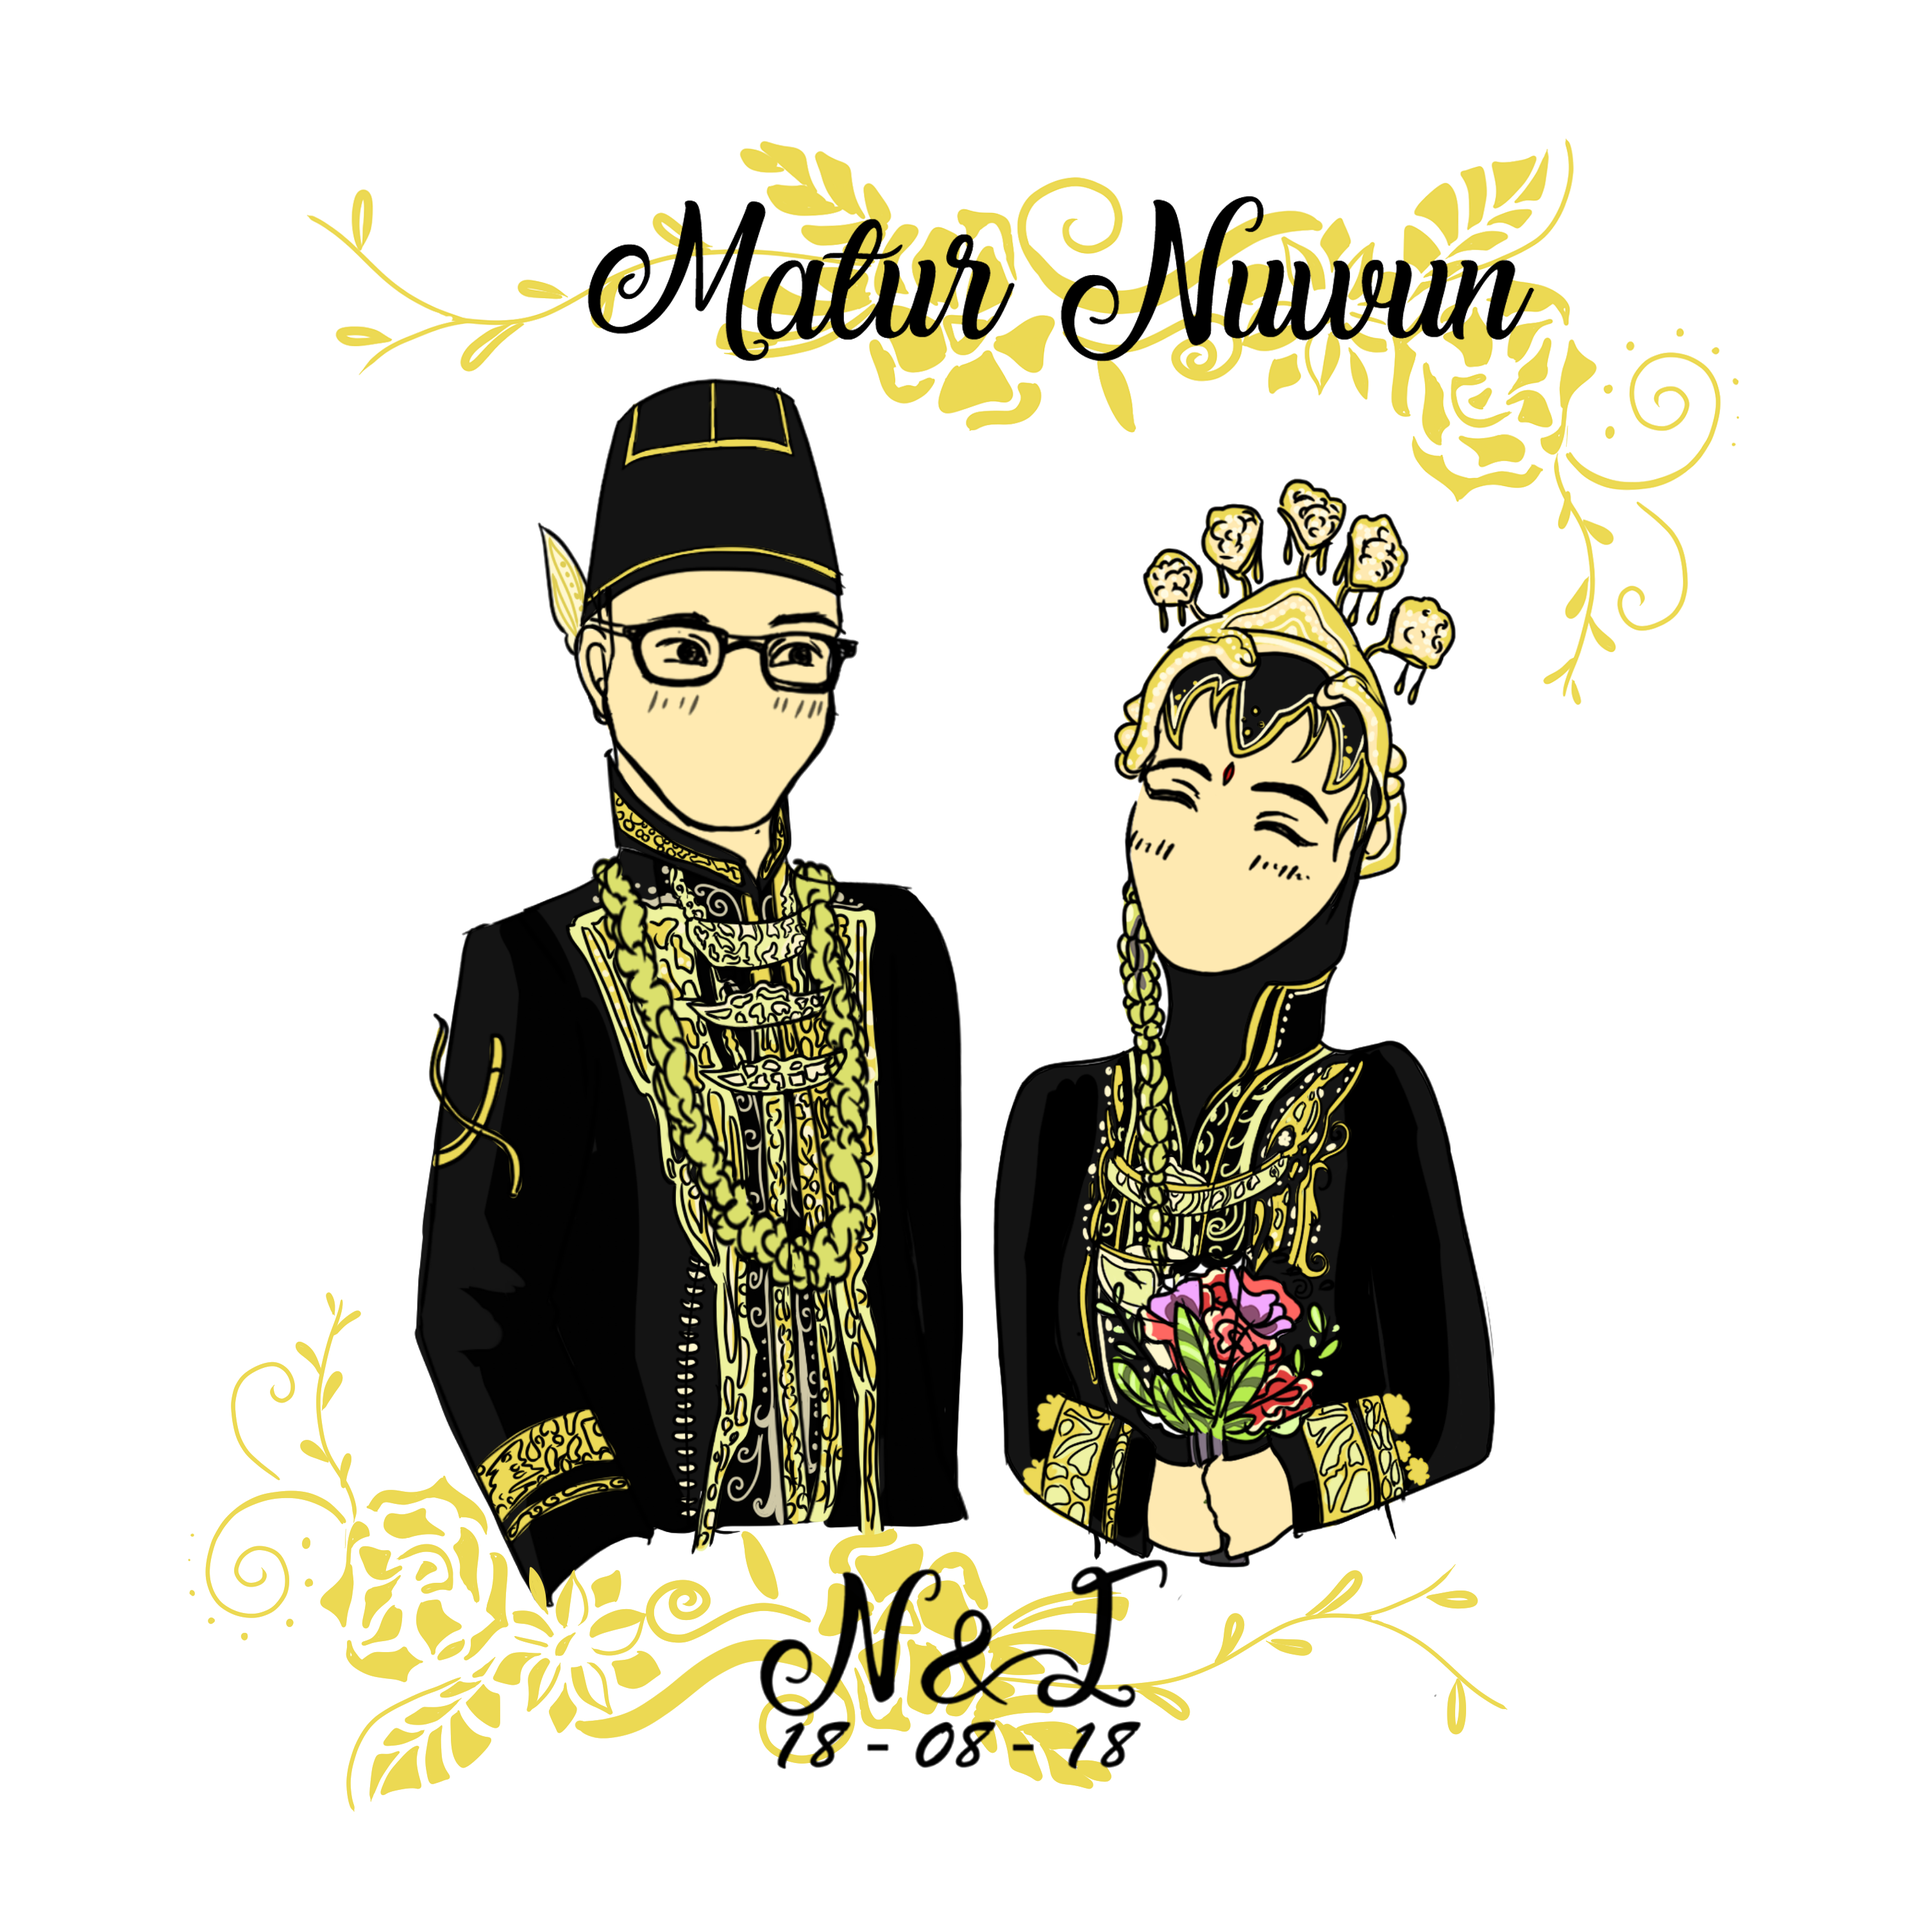
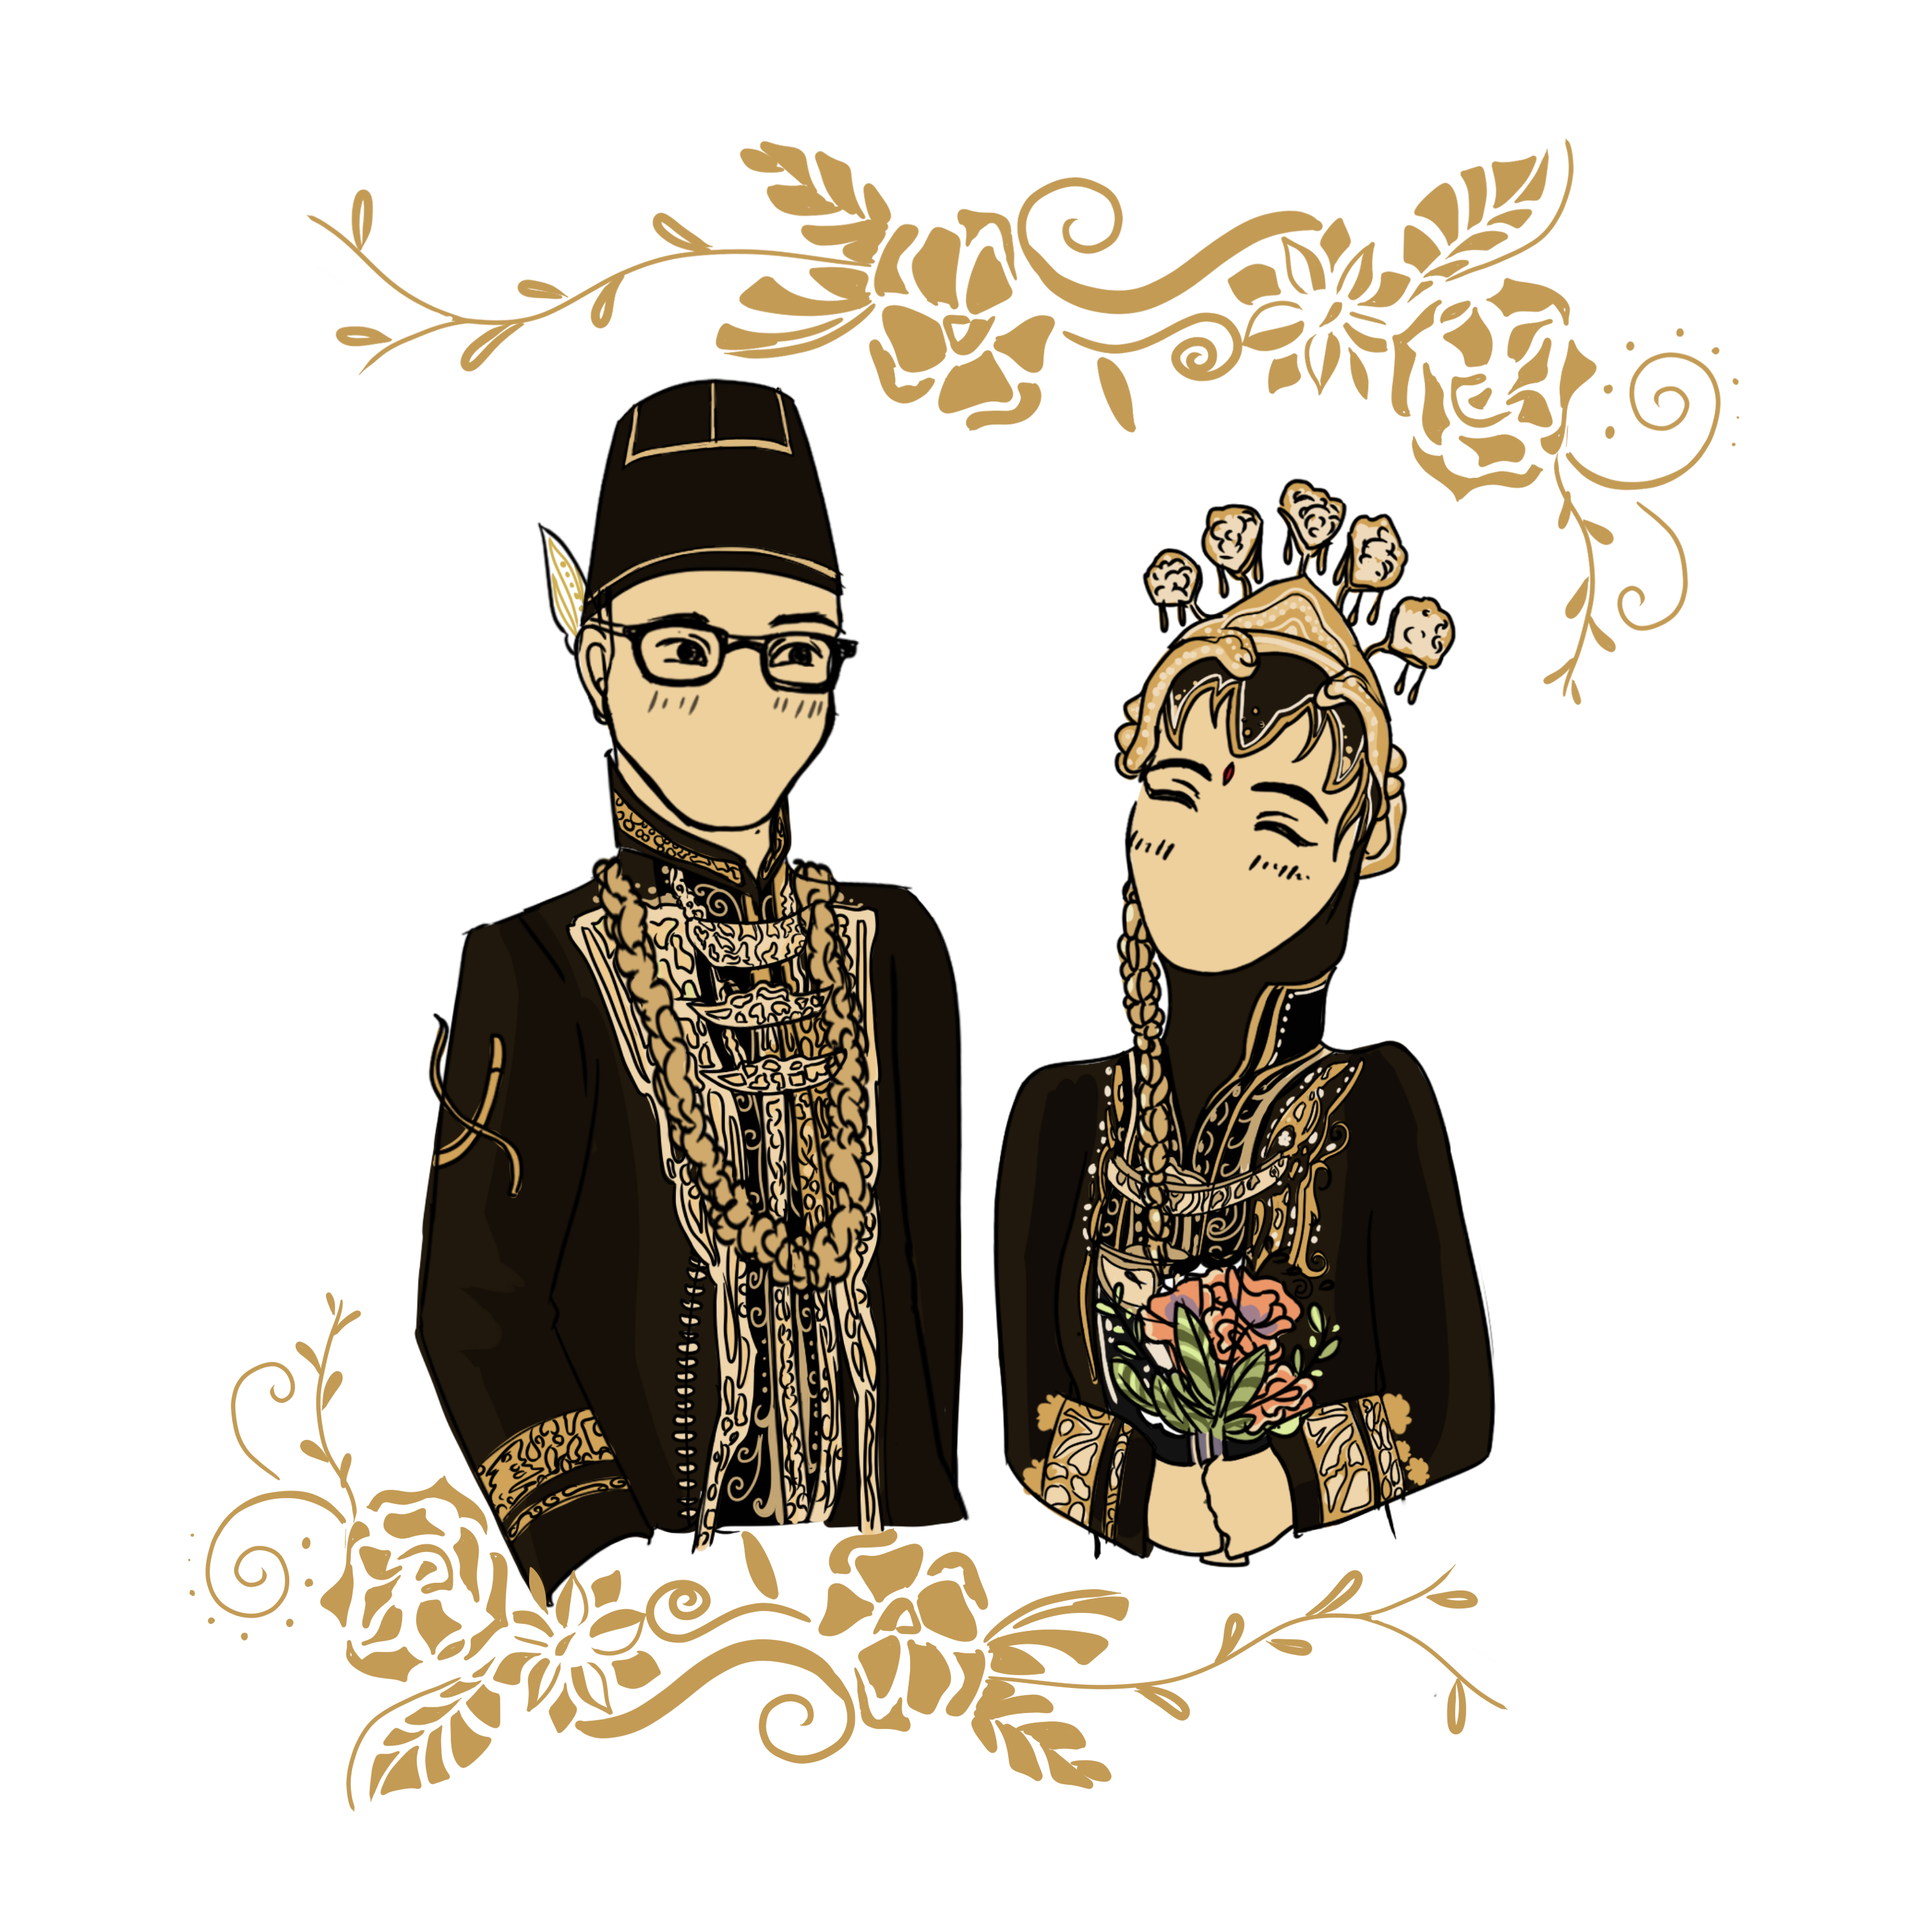
update all

diff --git a/src/index.html b/src/index.html
@@ -89,7 +89,7 @@
 	            <li><a href="#" data-nav-section="greetings"><span>Greetings</span></a></li>
 	            <li><a href="#" data-nav-section="people"><span>People</span></a></li-->
 	            <li><a href="#" data-nav-section="when-where"><span>Waktu &amp; Tempat</span></a></li>
-	            <li><a href="#" data-nav-section="rsvp"><span>RSVP</span></a></li>
+	            <li><a href="#" data-nav-section="rsvp"><span>Buku Tamu</span></a></li>
 	            <li><a href="#" data-nav-section="gallery"><span>Galeri</span></a></li>
 	            <!--li><a href="#" data-nav-section="blog"><span>Blog</span></a></li-->
 	          </ul>
@@ -101,9 +101,9 @@
 	
 	
 
-	<section id="home" class="video-hero" style="height: 800px; width: 100%; background-image: url(assets/images/cover_bg_3.jpg);  background-size:cover; background-position: center center;background-attachment:fixed;" data-section="home">
+	<section id="home" class="video-hero" style="height: 600px; width: 100%; background-image: url(assets/images/cover_bg_3.jpg);  background-size:cover; background-position: center center;background-attachment:fixed;" data-section="home">
 	<div class="qbootstrap-overlay"></div>
-		<a class="player" data-property="{videoURL:'https://youtu.be/nlpoMtPHLfY',containment:'#home', showControls:false, autoPlay:true, loop:true, mute:true, startAt:0, opacity:1, quality:'default'}"></a> 
+		<a class="player" data-property="{videoURL:'https://youtu.be/nlpoMtPHLfY',containment:'#home', showControls:false, autoPlay:true, loop:true, mute:true, startAt:0, opacity:1, quality:'small'}"></a> 
 		<div class="display-t text-center">
 			<div class="display-tc">
 				<div class="container">
@@ -130,7 +130,7 @@
 						<p>"Dan di antara tanda-tanda kekuasaan-Nya ialah Dia menciptakan untukmu isteri-isteri dari jenismu sendiri, supaya kamu cenderung dan merasa tenteram kepadanya, dan dijadikan-Nya diantaramu rasa kasih dan sayang. Sesungguhnya pada yang demikian itu benar-benar terdapat tanda-tanda bagi kaum yang berfikir."</p>
 						<p><strong>QS Ar-Ruum &mdash; 21</strong></p>
 						<p>Bismillahirrahmaanirrahiim</p>
-						<p>Ya Allah, izinkanlah kami memenuhi syariat agama-Mu, mengikuti sunnah Rasul-Mu. Perkenankanlah kami menyatukan dua hati ini dalam ikatan suci yang Engkau ridhoi</p>
+						<p>Ya Allah, izinkanlah kami memenuhi syariat agama-Mu, mengikuti sunnah Rasul-Mu. Perkenankanlah kami menyatukan dua hati ini dalam ikatan suci yang Engkau ridhoi.</p>
 					</div>
 				</div>
 			</div>
@@ -140,7 +140,7 @@
 						<img src="assets/images/bride.jpg" class="img-responsive" alt="">
 						<h3>Nadia Sekar Ayuningtyas</h3>
 					</div>
-					<div class="col-md-2 col-sm-2 col-xs-2 nopadding"><h2 class="amp-center"><img src="assets/images/flaticon/svg/003-luxury.svg" class="svg img-responsive" alt=""></h2></div>
+					<div class="col-md-2 col-sm-2 col-xs-2 nopadding"><h2 class="amp-center"><img src="assets/images/flaticon/svg/003-luxury.svg" class="colored svg img-responsive" alt=""></h2></div>
 					<div class="col-md-5 col-sm-5 col-xs-5 nopadding">
 						<img src="assets/images/groom.jpg" class="img-responsive" alt="">
 						<h3>Irfan Fakhrian Boelhasrin</h3>
@@ -150,7 +150,7 @@
 		</div>
 	</div>
 	
-	<div id="qbootstrap-countdown" data-stellar-background-ratio="0.5" style="background-image: url(assets/images/cover_bg_2.jpg);" data-section="wedding-day">
+	<div id="qbootstrap-countdown" data-stellar-background-ratio="0.5" style="background-image: url(assets/images/cover.png);" data-section="wedding-day">
 		<div class="overlay"></div>
 		<div class="display-over">
 			<div class="container">
@@ -184,36 +184,36 @@
 						<h2>Tentang Kami</h2>
 						<p>Nadia dan Irfan pertama kali saling mengenal di salah satu media sosial yang sangat dikenal pada masanya (sebut saja face****) ketika keduanya masih mengenyam pendidikan di SMP masing-masing.</p>
 						<p>Tak disangka, keduanya kemudian dipertemukan di SMA yang sama.</p>
-						<p>Sejak itu, 9 tahun kemudian takdir Allah SWT. menumbuhkan keyakinan di hati Nadia dan Irfan untuk merumuskan masa depan bersama-sama.</p>
+						<p>Sejak itu, 9 tahun kemudian takdir Allah SWT. menumbuhkan keyakinan di hati Nadia dan Irfan untuk melanjutkan perjalanan bersama-sama dalam ikatan yang diridhoi-Nya.</p>
 					</div>
 				</div>
 			</div>
 			<div class="row">
 				<div class="col-md-6">
 					<div class="couple bride text-center animate-box">
-						<img src="assets/images/bride.jpg" class="img-responsive" alt="">
+						<img src="assets/images/bride2.jpg" class="img-responsive" alt="">
 						<div class="desc">
 							<h2>Nadia Sekar Ayuningtyas</h2>
 							<p>Nadia merupakan anak ke-4 dari 5 bersaudara, putri dari Bapak Ivie Yustiaji dan Ibu Jutti Levita. Nadia lahir dan besar di Bandung, tepatnya di Cimahi. Meskipun selalu punya mimpi untuk menjelajah, Nadia tidak pernah menyangka bahwa jodohnya ternyata hanya berjarak satu blok dari rumahnya!</p>
-							<ul class="social social-circle">
+							<!--ul class="social social-circle">
 								<li><a href="#"><i class="icon-twitter"></i></a></li>
 								<li><a href="#"><i class="icon-facebook"></i></a></li>
 								<li><a href="#"><i class="icon-instagram"></i></a></li>
-							</ul>
+							</ul-->
 						</div>
 					</div>
 				</div>
 				<div class="col-md-6">
 					<div class="couple groom text-center animate-box">
-						<img src="assets/images/groom.jpg" class="img-responsive" alt="">
+						<img src="assets/images/groom2.jpg" class="img-responsive" alt="">
 						<div class="desc">
 							<h2>Irfan Fakhrian Boelhasrin</h2>
-							<p>Irfan adalah anak kedua dari tiga bersaudara, satu-satunya anak laki-laki dari Bapak Benny Boelhasrin dan Ibu Yuliati Endah Kusumawati....</p>
-							<ul class="social social-circle">
+							<p>Irfan adalah anak kedua dari tiga bersaudara, satu-satunya anak laki-laki dari Bapak Benny Boelhasrin dan Ibu Yuliati Endah Kusumawati. Sama seperti Nadia, Irfan juga lahir di Bandung dan besar di Cimahi.</p>
+							<!--ul class="social social-circle">
 								<li><a href="#"><i class="icon-twitter"></i></a></li>
 								<li><a href="#"><i class="icon-facebook"></i></a></li>
 								<li><a href="#"><i class="icon-instagram"></i></a></li>
-							</ul>
+							</ul-->
 						</div>
 					</div>
 				</div>
@@ -506,17 +506,17 @@
 		</div>
 	</div>
 
-	<div id="qbootstrap-started" class="qbootstrap-bg" data-section="rsvp" data-stellar-background-ratio="0.5" style="background-image: url(assets/images/cover_bg_1.jpg);">
+	<div id="qbootstrap-started" class="qbootstrap-bg" data-section="rsvp" data-stellar-background-ratio="0.5" style="background-image: url(assets/images/cover.png);">
 		<div class="overlay"></div>
 		<div class="container">
 			<div class="row animate-box">
 				<div class="col-md-8 col-md-offset-2">
 					<div class="col-md-12 text-center section-heading svg-sm colored">
 						<img src="assets/images/flaticon/svg/005-two.svg" class="svg" alt="">
-						<h2>Kami Mengundangmu</h2>
+						<h2>Kami Mengundang Anda</h2>
 						<div class="row">
 						<div class="col-md-10 col-md-offset-1 subtext">
-							<h3>Silakan mengisi informasi data diri</h3>
+							<h3>Silakan mengisi buku tamu di bawah ini</h3>
 						</div>
 					</div>
 					</div>
@@ -541,7 +541,7 @@
 						</div>
 						<div class="row">
 							<div class="col-md-6 col-sm-6">
-								<h4>Apakah anda akan hadir?</h4>
+								<h4>Apakah Anda akan hadir?</h4>
 								<div class="form-check">
 									<input type="radio" class="form-check-input" id="attend" name="attend" value="true">
 									<label for="attend" class="form-check-label">
@@ -556,7 +556,7 @@
 								</div>
 							</div>
 							<div class="col-md-6 col-sm-6">
-								<h4>Apakah anda akan membawa +1?</h4>
+								<h4>Apakah Anda akan membawa +1?</h4>
 								<div class="form-check">
 									<input type="radio" class="form-check-input" id="plusone" name="plusone" value="true">
 									<label for="plusone" class="form-check-label">
@@ -729,12 +729,12 @@
 			</div>
 			<div class="row">
 				<div class="col-md-12 text-center">
-					<ul class="social social-circle">
+					<!--ul class="social social-circle">
 						<li><a href="#"><i class="icon-twitter"></i></a></li>
 						<li><a href="#"><i class="icon-facebook"></i></a></li>
 						<li><a href="#"><i class="icon-youtube"></i></a></li>
 						<li><a href="#"><i class="icon-instagram"></i></a></li>
-					</ul>
+					</ul-->
 				</div>
 			</div>
 		</div>

diff --git a/src/assets/js/main.js b/src/assets/js/main.js
@@ -282,7 +282,7 @@
 		// If the count down is finished, write some text 
 		if (distance < 0) {
 		 clearInterval(x);
-		 document.getElementById("demo").innerHTML = "The Wedding Ceremony is Over";
+		 document.getElementById("demo").innerHTML = "Resepsi Pernikahan Kami Telah Usai, Terima Kasih!";
 		}
 		}, 1000);	
 	

diff --git a/src/assets/css/style.css b/src/assets/css/style.css
@@ -663,6 +663,15 @@ h1, h2, h3, h4, h5, h6 {
   fill: #c39b55;
 }
 
+#qbootstrap-couple .amp-center .colored .png {
+  fill: #c39b55;
+  height: 100px;
+}
+
+#qbootstrap-couple .amp-center .svg {
+  fill: #c39b55;
+}
+
 #qbootstrap-couple .section-heading.svg-sm .png {
   fill: #c39b55;
   height: 200px;
